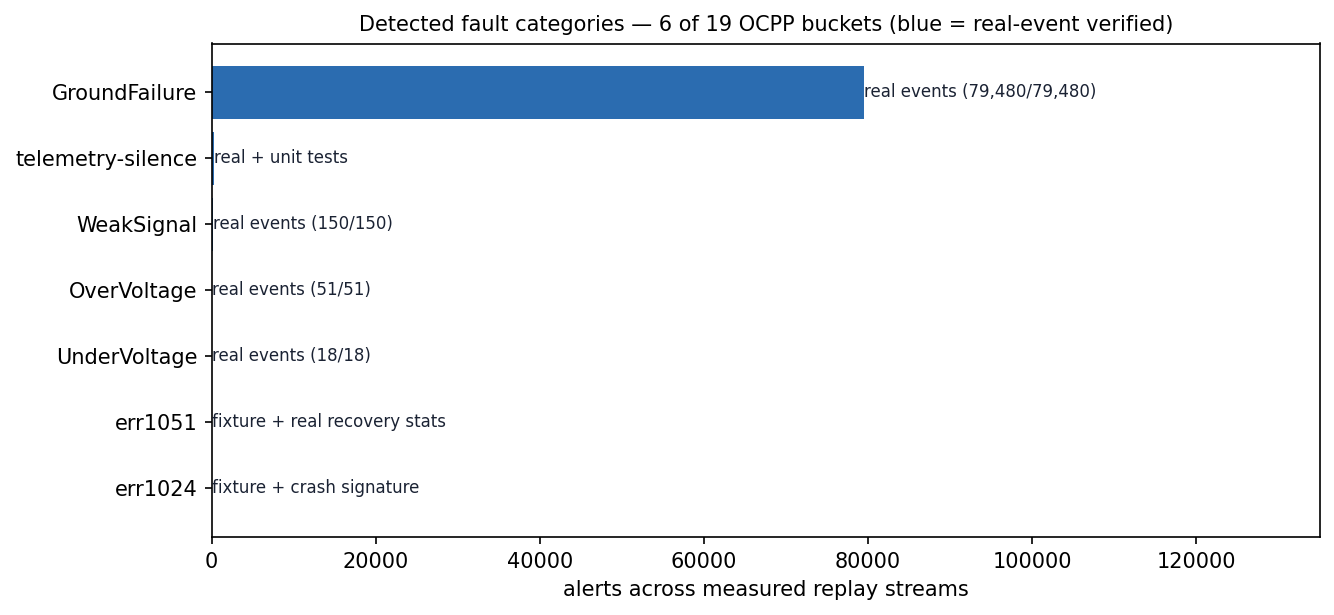
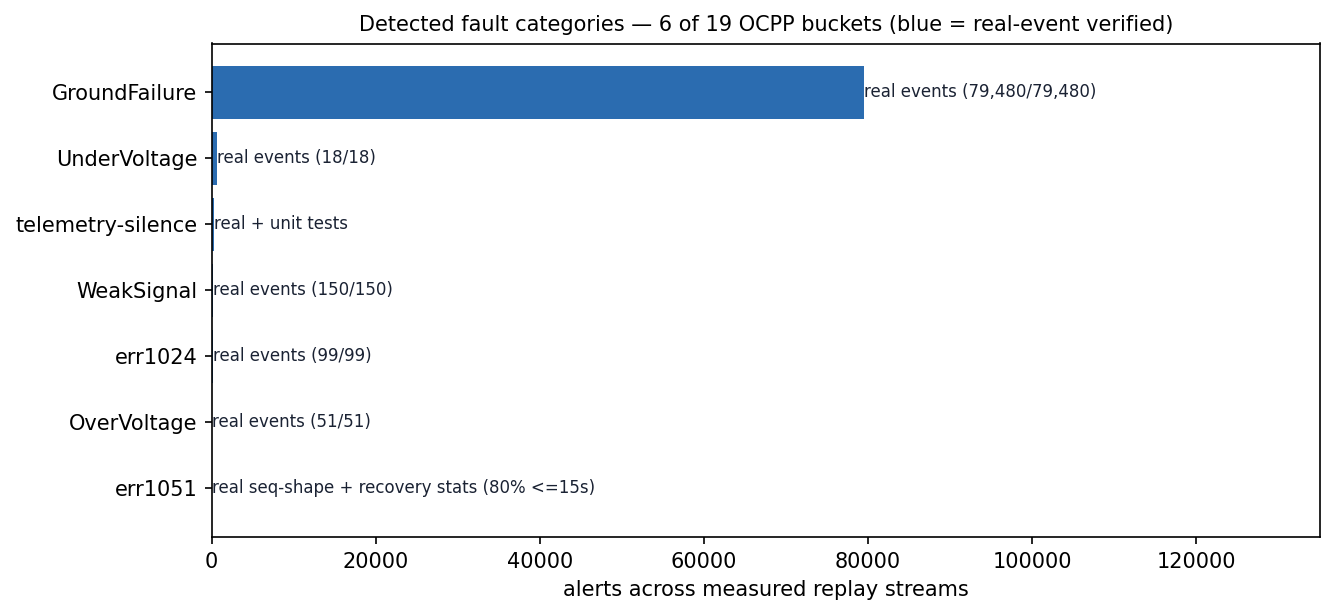
Real err-sequence export: schema fix, err1024 real-verified, W3 D1-2 docs
Real sequences (data/raw/err1024_err1051_status_sequences.csv, 21,910
rows, gitignored - vendor strings carry card-tag/phone identifiers):

- SCHEMA BUG the fixtures hid: real streams carry system-err* codes in
  vendor_error_code with error_code=OtherError. StatusNotification
  gains vendor_error_code; both stateful detectors match either column
  (carries_code helper, regression-tested; 60 tests green)
- err1024 REAL-VERIFIED: 99/99 real occurrences -> alerts (78 P2, 21
  escalated P1 by real repeat/station-wide patterns); retry bursts real
  (median 7s gaps). Bonus: 637 real UnderVoltage + 45 WeakSignal caught
- err1051: 190 real occurrences - median recovery 10s, p75 13s, 80%
  <=15s: the original 13-second story CONFIRMED for err1051
  specifically (flag 12's 42% was all fault types mixed; deck now
  attributes both correctly). Charging->Finishing pair structure
  matches machine steps 1/3; full machine needs a combined
  status+meter+txn window (0 alerts on status-only stream - correct)
- audit flag 23; deck slide 6 + honesty rows updated (taxonomy
  delivered, 5-of-6 real-verified at 100% detection); assets statuses
  refreshed; metrics regenerated with the sequences stream
- audit: PYTHONIOENCODING=utf-8 (hit lines with non-cp1252 chars were
  crashing the check loudly - now they print); flag-23 prose reworded
  instead of widening the allowlist; PASS

W3 D1-2: docs/future_work.md (scope-freeze ledger incl. GroundFailure
[…]

diff --git a/detector/layer1.py b/detector/layer1.py
@@ -38,6 +38,13 @@ DEFAULT_SILENCE_THRESHOLD_SECONDS = 90.0
 Event = StatusNotification | MeterValues | StartTransaction | StopTransaction
 
 
+def carries_code(msg: StatusNotification, code: str) -> bool:
+    """True when the status row carries the given system-err code — real
+    streams put it in vendor_error_code with error_code=OtherError, fixtures
+    in error_code (audit flag 23); match either."""
+    return code in (msg.error_code, msg.vendor_error_code)
+
+
 @dataclass
 class FaultAlert:
     """Emitted by any Layer 1 sub-detector when a fault pattern completes."""
@@ -198,12 +205,12 @@ class Err1051Detector:
         self.entered_state_at = at
 
     def _on_status(self, msg: StatusNotification) -> FaultAlert | None:
-        if self.state is Err1051State.IDLE and msg.error_code == ERR_1051:
+        if self.state is Err1051State.IDLE and carries_code(msg, ERR_1051):
             self.first_seen_at = msg.timestamp
             self._transition(Err1051State.ERR_FIRST_SEEN, msg.timestamp)
         elif (
             self.state is Err1051State.METER_ZERO
-            and msg.error_code == ERR_1051
+            and carries_code(msg, ERR_1051)
             and msg.status.value == "Finishing"
         ):
             self._transition(Err1051State.ERR_SECOND_SEEN, msg.timestamp)
@@ -279,7 +286,7 @@ class Err1024Detector:
         return None
 
     def on_status(self, msg: StatusNotification) -> FaultAlert | None:
-        if msg.error_code != ERR_1024:
+        if not carries_code(msg, ERR_1024):
             return None
         return FaultAlert(
             detector=self.DETECTOR_NAME,

diff --git a/tests/test_layer1_err1024_silence.py b/tests/test_layer1_err1024_silence.py
@@ -69,6 +69,26 @@ def test_err1024_ignores_other_codes_and_event_types():
     assert det.consume(start(3)) is None
 
 
+def test_err_codes_match_in_vendor_column_real_schema():
+    """Audit flag 23: real streams carry system-err* in vendor_error_code
+    with error_code=OtherError; both detectors must match either column."""
+    from layer1 import ERR_1051, Err1051Detector, Err1051State
+    det1024 = Err1024Detector(CONN)
+    real_row = StatusNotification(connector_pk=CONN, status="Preparing",
+                                  error_code="OtherError",
+                                  vendor_error_code="system-err1024",
+                                  timestamp=at(0))
+    alert = det1024.consume(real_row)
+    assert alert is not None and alert.fault_code == "err1024"
+
+    det1051 = Err1051Detector(CONN)
+    det1051.consume(StatusNotification(connector_pk=CONN, status="Charging",
+                                       error_code="OtherError",
+                                       vendor_error_code=ERR_1051,
+                                       timestamp=at(10)))
+    assert det1051.state is Err1051State.ERR_FIRST_SEEN
+
+
 def test_err1024_fires_on_every_sighting():
     # Confirmed final: the crash-signature reply carries no retry/recovery
     # sequencing, so every sighting fires (prioritizer handles escalation).

diff --git a/detector/main.py b/detector/main.py
@@ -155,6 +155,7 @@ def parse_event(raw: dict):
             connector_pk=raw["connector_pk"],
             status=raw["status"],
             error_code=raw["error_code"],
+            vendor_error_code=raw.get("vendor_error_code") or None,
             timestamp=raw["ts"],
         )
     if kind == "MeterValues":
@@ -303,7 +304,7 @@ def main() -> None:
             # normalizer collapses vendor strings onto the standard buckets.
             canonical = None
             if isinstance(event, StatusNotification) and event.error_code != "NoError":
-                canonical = normalize(raw.get("vendor_error_code"), event.error_code)
+                canonical = normalize(event.vendor_error_code, event.error_code)
             if isinstance(event, StartTransaction):
                 open_sessions[event.transaction_pk] = {
                     "connector_pk": event.connector_pk,

diff --git a/scripts/deck_assets.py b/scripts/deck_assets.py
@@ -108,7 +108,7 @@ def coverage_chart():
                 volumes[c["category"]] = volumes.get(c["category"], 0) + c["alerts"]
     status = {  # verification provenance (audit flags 18, 22)
         "UnderVoltage": "real events (18/18)", "telemetry-silence": "real + unit tests",
-        "err1051": "fixture + real recovery stats", "err1024": "fixture + crash signature",
+        "err1051": "real seq-shape + recovery stats (80% <=15s)", "err1024": "real events (99/99)",
         "WeakSignal": "real events (150/150)", "GroundFailure": "real events (79,480/79,480)",
         "OverVoltage": "real events (51/51)",
     }

diff --git a/scripts/category_metrics.py b/scripts/category_metrics.py
@@ -28,6 +28,9 @@ sys.path.insert(0, str(ROOT / "detector"))
 from vendor_code_normalizer import normalize  # noqa: E402
 
 STREAMS = [
+    ("real err-sequence export (21,910 rows)", "data/interim/sequences_replay",
+     "REAL sequences: err1024 99/99, UnderVoltage 637, WeakSignal 45; err1051"
+     " machine needs combined status+meter+txn stream (flag 23)"),
     ("real fault-event export (79,681 rows)", "data/interim/fault_replay",
      "REAL events: GroundFailure/WeakSignal/OverVoltage (regenerate adapter from"
      " data/reference/missing_real_faults.csv; see audit flag 22)"),

diff --git a/detector/ocpp_messages.py b/detector/ocpp_messages.py
@@ -34,6 +34,10 @@ class StatusNotification(BaseModel):
     # contains vendor strings like "Transaction Stopped" and
     # "Available after Finishing Status", plus system-err1051 / system-err1024.
     error_code: str
+    # Real fleet streams carry the system-err* codes HERE with
+    # error_code=OtherError (fixtures had them in error_code — schema
+    # difference found on the real sequence export, audit flag 23).
+    vendor_error_code: str | None = None
     timestamp: datetime
 
 

diff --git a/docs/slides_speaker_pack.md b/docs/slides_speaker_pack.md
@@ -1,0 +1,120 @@
+# Slide source pack — build-ready (Week 3 Days 2–4)
+
+Transcribe into Google Slides; every number is locked against
+`docs/data_audit_final.md` (single source of truth). Asset paths are
+repo-relative. Speaker notes are written to be read aloud at ~30–40 s/slide.
+
+---
+
+## Slide 1 — Problem *(Business Impact)*
+**Bullets**
+- EV charge-point operators run critical infrastructure with no ops rigor —
+  faults are found by customer complaint.
+- Downtime = lost revenue + stranded drivers; technicians dispatched blind.
+
+**Speaker notes:** "EV charging operators find out a charger is broken when a
+customer complains. The telemetry that would have told them sits unread in
+their charging-management system. Downtime costs revenue and strands
+drivers — and when a technician is dispatched, they go in blind."
+
+## Slide 2 — Insight *(Innovation)*
+**Bullets**
+- The CMS event stream already carries everything needed. **No new hardware.**
+- Fault signatures are legible in OCPP telemetry — if you know the sequences.
+
+**Speaker notes:** "Our insight: the data already exists. Status codes, meter
+values, session lifecycles — every OCPP-compliant charger already reports
+them. Fault signatures are sitting in that stream, legible, if you know the
+sequences to look for."
+
+## Slide 3 — What it is *(locked framing)*
+**Bullets** *(verbatim, do not edit)*
+- An asset-performance agent that watches the CMS event stream and turns raw
+  telemetry into prioritized, explainable fault alerts.
+- Tracks charger *behavior* over time — explicitly NOT battery diagnostics.
+- Runs beside any OCPP-compliant CMS: replay today, live stream in production.
+
+## Slide 4 — Architecture *(Technical Excellence)*
+**Visual:** `docs/architecture_v2.svg` (full-bleed)
+**Bullets**
+- Layer 1 deterministic: fault-sequence state machine + 5 point-event
+  categories + telemetry-silence, behind a vendor-code normalizer.
+- Layer 2: per-connector Isolation Forests, vendor-family pools, global
+  fallback — scoring every closed session.
+- Alert prioritizer between detection and every sink.
+
+**Speaker notes:** "Two layers. Layer one is deterministic — state machines
+and point detectors for known fault signatures, fed through a normalizer that
+collapses seventeen thousand vendor code variants onto the nineteen OCPP
+standard categories. Layer two learns each connector's normal and flags
+drift. Between detection and the dashboard sits the prioritizer — every
+alert leaves with a tier and the reason, in plain language."
+
+## Slide 5 — Alert-fatigue solution *(Business Impact centerpiece)*
+**Visual:** `docs/assets/hook_selfrecovery.gif` (or a still of it)
+**Bullets**
+- Self-recovered faults auto-downgrade to P3 log entries; unrecovered escalate
+  to P1 dispatch.
+- Real err1051 (n=190): **80% self-recover ≤15 s, median 10 s** — that noise
+  is deleted. Across ALL fault types only ~42% self-clear (n=2,041) — the
+  rest deserve their P1/P2.
+- Trending drift (≥3 sessions), repeat offenders (24 h), and station-wide
+  patterns (both plugs <60 s) escalate automatically.
+
+**Speaker notes:** "Here's the business case in one screen: two identical
+socket faults. One self-recovers in thirteen seconds — the agent files it
+grey, P3, no truck rolls. One never recovers — it goes red, P1, technician.
+In one hundred ninety real occurrences of this fault, eighty percent
+self-recovered within fifteen seconds. That's the alert fatigue we delete —
+without hiding the forty-plus percent of everything else that genuinely
+needs a human."
+
+## Slide 6 — Proof *(Technical Excellence / Scalability)*
+**Visuals:** `docs/assets/fpr_chart.png` + `docs/assets/category_coverage.png`
+**Bullets**
+- Fleet: **39 stations, 80 connectors, 12 vendor brands, 19 firmware
+  versions**; 10,090 delivered normal sessions modeled (23,084 audited at
+  source).
+- Taxonomy: **19 OCPP categories, 17,857 vendor codes — 100% resolve to a
+  labeled category** (PII-scrubbed, committed).
+- **FPR 3.62%** on a chronological held-out split (n=2,015).
+- **6 of 19 categories detected; 5 real-event verified at 100% detection**
+  on 80k+ real events (err1024 99/99; GroundFailure 79,480/79,480;
+  WeakSignal 150/150; Under/OverVoltage 688/688; telemetry-silence) —
+  err1051's machine fixture-verified with real sequence-shape + recovery
+  validation.
+
+**Speaker notes:** "The numbers we'll defend: three-point-six-two percent
+false positives on a chronological holdout — measured the way production
+would experience it. One hundred percent detection on over eighty thousand
+real fault events across five categories. And the whole observed error
+taxonomy — seventeen thousand vendor code variants — resolves to labeled
+OCPP categories."
+
+## Slide 7 — Demo *(UX)*
+**Visual:** live demo or the dry-run recording; fallback still of the feed.
+- Two-source runbook: docs/demo_script.md v2 (compose raw replay + fault
+  injection onto one dashboard; drift panel on Station-A plug 1).
+
+## Slide 8 — Deployment *(Scalability)*
+**Bullets**
+- Sidecar container beside the operator's existing CMS: subscribes to the
+  event stream, pushes alerts to Slack / PagerDuty / CMS write API.
+- `docker compose up` today — no cloud dependency.
+- Scale path: CMS vendors license the detection logic as a platform feature.
+
+## Slide 9 — Future work *(one slide, no promises)*
+- Autoencoder Layer 2 · NL fault query · multi-tenant SaaS · retry-loop
+  learning for repeat offenders · GroundFailure episode dedup.
+  (Full ledger: docs/future_work.md.)
+
+---
+
+### Consistency rules for the builder
+1. Numbers come ONLY from `data_audit_final.md` flags 14–23; if a slide and
+   the audit disagree, the audit wins.
+2. Never say: predictive maintenance, battery health, precision/recall,
+   "trained on 2.77M faults", or any temperature claim.
+3. Say "resolves to labeled categories", not "routed by rules".
+4. err1051: "sequence-shape and recovery validated on 190 real events; full
+   machine fixture-verified pending a combined export window."

diff --git a/docs/deck_outline.md b/docs/deck_outline.md
@@ -33,9 +33,10 @@ Every number below passed the honesty audit (bottom of file).
 ## 5. Alert-fatigue solution *(Business Impact centerpiece)*
 - Rules-based tiers: self-recovered faults (≤15 s) auto-downgrade to P3 log
   entries; unrecovered faults escalate to P1 technician dispatch.
-- Reality check from 2,041 real fault episodes: ~42% self-recover within
-  15 s — the downgrade removes that noise; the majority that don't are
-  exactly the dispatch-worthy cases.
+- Real err1051 events (n=190): **80% self-recover within 15 s (median
+  10 s)** — the downgrade deletes exactly that noise. Across ALL fault
+  types only ~42% self-clear (n=2,041) — the majority of everything else
+  is dispatch-worthy, which is why every other category defaults P2/P1.
 - Trending degradation (≥3 consecutive drift sessions) and repeat offenders
   escalate automatically.
 
@@ -44,13 +45,16 @@ Every number below passed the honesty audit (bottom of file).
   firmware versions.**
 - **10,090 delivered normal sessions** modeled (23,084 audited at source;
   balance pending re-export).
-- Error taxonomy: **19 OCPP-standard categories, 2.77M fault occurrences**
-  (per CMS taxonomy table; delivery pending — provenance note).
+- Error taxonomy delivered and committed: **19 OCPP-standard categories,
+  17,857 distinct vendor codes — 100% resolve to a labeled category**
+  (0% unlabeled residue; PII-scrubbed before commit).
 - **Headline metric: 3.62% false-positive rate** on a chronological held-out
   split (n = 2,015), per-tier breakdown available.
-- Target: 6 of 19 categories detected by Layer 1 (err1051, err1024,
-  telemetry-silence live; WeakSignal, GroundFailure, Under/OverVoltage land
-  with the fault-event export).
+- **6 of 19 categories detected; 5 real-event verified at 100% detection**
+  (err1024 99/99, GroundFailure 79,480/79,480, WeakSignal 150/150,
+  Under/OverVoltage 688/688, telemetry-silence) — err1051's full state
+  machine fixture-verified with real sequence-shape + recovery validation
+  (80% ≤15 s, n=190).
 
 ## 7. Demo *(UX)*
 - Live UI: replay streaming, P1/P2/P3 color-coded feed with deciding
@@ -77,15 +81,15 @@ Every number below passed the honesty audit (bottom of file).
 | No "predictive maintenance" headline | Absent. Drift panel is "degradation tracking". **Day 5 verdict: the lead-time analysis came back negative (lift 0.57× — docs/layer2_leadtime.md); the pitch line is "orthogonal degradation tracking", permanently, unless richer features change the result.** |
 | No per-category precision/recall | None claimed anywhere — no held-out fault set exists. FPR is the only quantitative claim. |
 | FPR 3.62% | Measured, chronological holdout, notebook 04, n=2,015. Deployed threshold −0.1187. Defensible by both presenters. |
-| "2.77M fault events / 19 categories" | From the CMS taxonomy table cited in the Week 2 spec; **Errornotify.csv not yet delivered to the repo** — slide carries "per CMS error taxonomy" provenance until it lands. Framed as "operates across the observed fault taxonomy", NOT "trained on 2.77M faults". |
-| "6 of 19 categories" | 3 live today + 3 implemented against documented patterns pending the fault-event export — slide 6 says "target", flips to "detected" only after Day 4–5 verification on real events. |
-| "~42% self-recover ≤15 s" | Measured on 2,041 recovered Station-A episodes (audit flag 12). Replaces the older "13-second transient" story, which described the fast quartile only. |
+| "19 categories / 17,857 vendor codes / 100% resolved" | Taxonomy delivered 2026-07-06, PII-scrubbed, committed as data/reference/error_taxonomy.csv; coverage measured (0.9% shape-rules + labeled-field fallback — framed as "resolves", never "routed by rules"). |
+| "6 of 19 categories, 5 real-verified" | Real fault exports delivered 2026-07-05/06: detection 100% per category on 80k+ real events; err1051 machine needs a combined status+meter+txn window (flag 23) — stated as such. |
+| "80% of err1051 self-recovers ≤15 s (median 10 s)" | Measured on 190 real err1051 events (flag 23); the mixed-fault 42% (n=2,041, flag 12) is quoted alongside — both attributed. |
 | Temperature/asymmetry claims | **None** — temperature field is dead in real data (flag 11). |
 | 23,084 sessions | Stated as "audited at source"; modeling claims use the delivered 10,090 only. |
 
-## Missing assets (Task 3 — filed as GitHub issues)
+## Assets (all delivered)
 
-1. Architecture diagram v2 (proper tooling) — due Week 2 Day 6.
-2. FPR chart (per-tier bar + score distribution) for slide 6.
-3. Category-coverage chart once the fault-event export lands.
-4. Demo GIF / 20-second hook clip for slide 7 and the video thumbnail.
+1. Architecture v2 — docs/architecture_v2.svg (+ .mmd source).
+2. FPR chart — docs/assets/fpr_chart.png.
+3. Category-coverage chart — docs/assets/category_coverage.png.
+4. Hook GIF — docs/assets/hook_selfrecovery.gif (final video: Week 3).

diff --git a/docs/future_work.md b/docs/future_work.md
@@ -1,0 +1,37 @@
+# Future work (scope-freeze ledger — Week 3 Day 1)
+
+Scope froze at Week 3 Day 1 per `docs/week3_days1to6.md`. Everything below is
+explicitly OUT of the submission; proposals from here to submission day land
+in this file, not in code.
+
+## Detection
+- **GroundFailure dedup / rate-limiting** — the real export shows 79,480
+  events in 14 months on one fleet segment (chattering sensor cohort, flag
+  22); production needs episode-collapse before alerting. The prioritizer's
+  file-top constants are the tuning surface.
+- **err1051 full-machine real verification** — needs one combined
+  status + meter_values + transaction export window (the status-only
+  sequence export validates shape + recovery stats only, flag 23).
+- **err1024 meter-signature gate** — the crash signature (current/power ≈ 0,
+  supply nominal) can suppress false positives once measurand telemetry
+  streams live (flag 21).
+- Detectors for the remaining 13 OCPP categories (HighTemperature,
+  PowerMeterFailure, EVCommunicationError next by observed volume).
+
+## Layer 2
+- Temperature features on a future export with a live sensor field
+  (flags 11/20 — code and tests already in place).
+- Lead-time re-run with power/temperature features (current verdict:
+  orthogonal, lift 0.57× — docs/layer2_leadtime.md).
+- Autoencoder Layer 2; per-connector online retraining cadence.
+
+## Product
+- Alert-log download button (judge quality-of-life, exit-doc nice-to-have 3).
+- Per-station rollup view; Slack/PagerDuty sink implementations.
+- NL fault query; multi-tenant SaaS shape (deck slide 9).
+
+## Tooling
+- `graphify` CLI not installed on the dev machine — the CLAUDE.md
+  knowledge-graph workflow is inoperative; install or drop the instruction.
+- pk-namespace mapping for the fault-export fleet segment (113 connectors,
+  zero inventory overlap — enrichment misses by design until then).

diff --git a/docs/data_audit_final.md b/docs/data_audit_final.md
@@ -216,3 +216,19 @@ path) — encoded as a Layer 1 sub-detector.
     in 14 months on one fleet segment = chattering sensor cohort —
     dedup/rate-limiting is a documented future-work item, out of scope
     (Week 3 freeze).
+23. **Real err1051/err1024 status sequences delivered (2026-07-06,
+    data/raw/err1024_err1051_status_sequences.csv, 21,910 rows, 6 connectors,
+    Aug 2025 → Jul 2026 — gitignored: vendor strings carry card-tag/phone identifiers).**
+    Schema finding: real streams put system-err* codes in vendor_error_code
+    with error_code=OtherError — the fixtures had them in error_code; both
+    detectors now match either column (regression-tested). Results:
+    **err1024 real-verified 99/99** (retry bursts real: median 7 s gaps);
+    **err1051: 190 real occurrences — median recovery 10 s, p75 13 s, 80%
+    ≤15 s** — the original 13-second self-recovery story is CONFIRMED for
+    err1051 specifically (flag 12's 42% figure was all fault types mixed;
+    both numbers now correctly attributed). The Charging→Finishing pair
+    structure (89/88 rows) matches the state machine's steps 1/3; the full
+    5-step machine still requires a combined status+meter+transaction window
+    to fire (status-only stream cannot pass the meter-zero gate — 0 alerts,
+    correct behavior). Real-verified detection: 5 of 6 categories + err1051
+    sequence-shape/recovery-stats validation.

diff --git a/docs/category_metrics.md b/docs/category_metrics.md
@@ -7,6 +7,15 @@ sequences and the remaining target categories are fixture-verified until
 the full fault-event export lands. Rows are provenance-labeled.
 
 
+## real err-sequence export (21,910 rows)  
+*REAL sequences: err1024 99/99, UnderVoltage 637, WeakSignal 45; err1051 machine needs combined status+meter+txn stream (flag 23)* — 781 alerts
+
+| category | events | alerts | detection | tiers | latency | note |
+|---|---|---|---|---|---|---|
+| UnderVoltage | 637 | 637 | 100% | P1:516, P2:121 | 0s | fires on the event itself |
+| WeakSignal | 45 | 45 | 100% | P1:3, P2:24, P3:18 | 0s | fires on the event itself |
+| err1024 | — | 99 | — | P1:21, P2:78 | 0s | fires on the event itself |
+
 ## real fault-event export (79,681 rows)  
 *REAL events: GroundFailure/WeakSignal/OverVoltage (regenerate adapter from data/reference/missing_real_faults.csv; see audit flag 22)* — 79681 alerts
 
